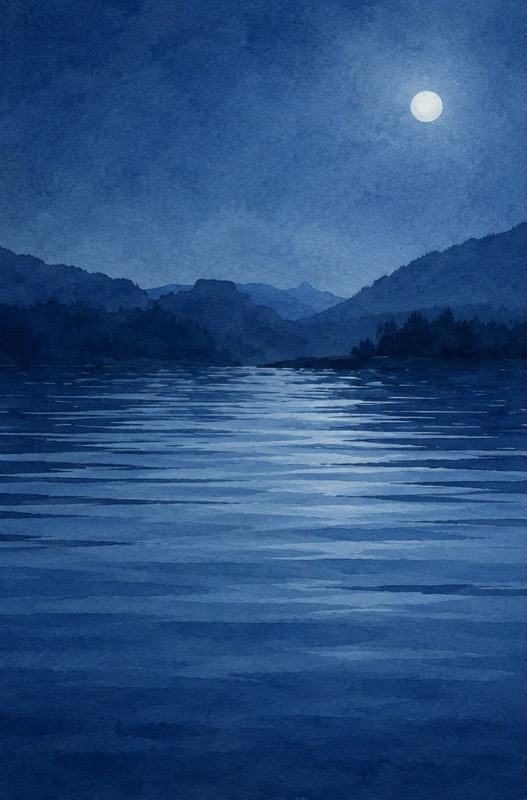
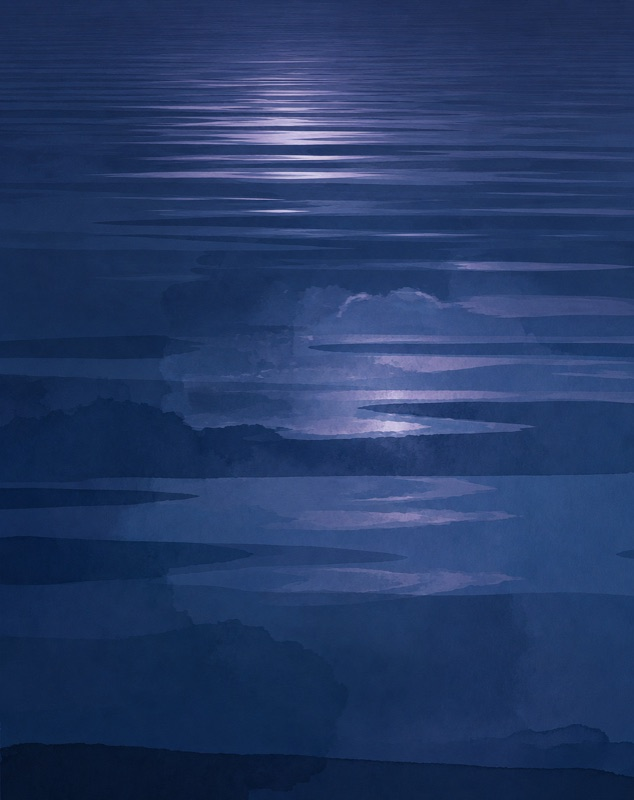
v134: new Gleichmut hero (still water watercolor), day + night
Replaces gleichmut-hero.jpg and gleichmut-hero-nacht.jpg with the new
calm still-water watercolor — an intimate, abstract close-up of a
mirror-still surface with soft horizontal reflection bands, matching the
smooth watercolor style of the other heroes and the meaning of
equanimity (deep and unmoved). Day = pale clear blue; night = deep blue
with a soft moonlight reflection. Both 800px tall; cache bumped so the
service worker re-fetches the same-named assets.

diff --git a/index.html b/index.html
@@ -2270,7 +2270,7 @@ const STRINGS = {
 
 
 // ── Adaptive quality accent ──────────────────────────────────────────────────
-var APP_VER = 'v133';
+var APP_VER = 'v134';
 
 var Q_ACCENT_LIGHT = {
   gleichmut:  { a:'#4a8fb5', bg:'#e2eff8', txt:'#fff'    },

diff --git a/sw.js b/sw.js
@@ -1,4 +1,4 @@
-const CACHE = 'vum-v133';
+const CACHE = 'vum-v134';
 
 self.addEventListener('install', e => {
   e.waitUntil(caches.open(CACHE).then(c => c.addAll([